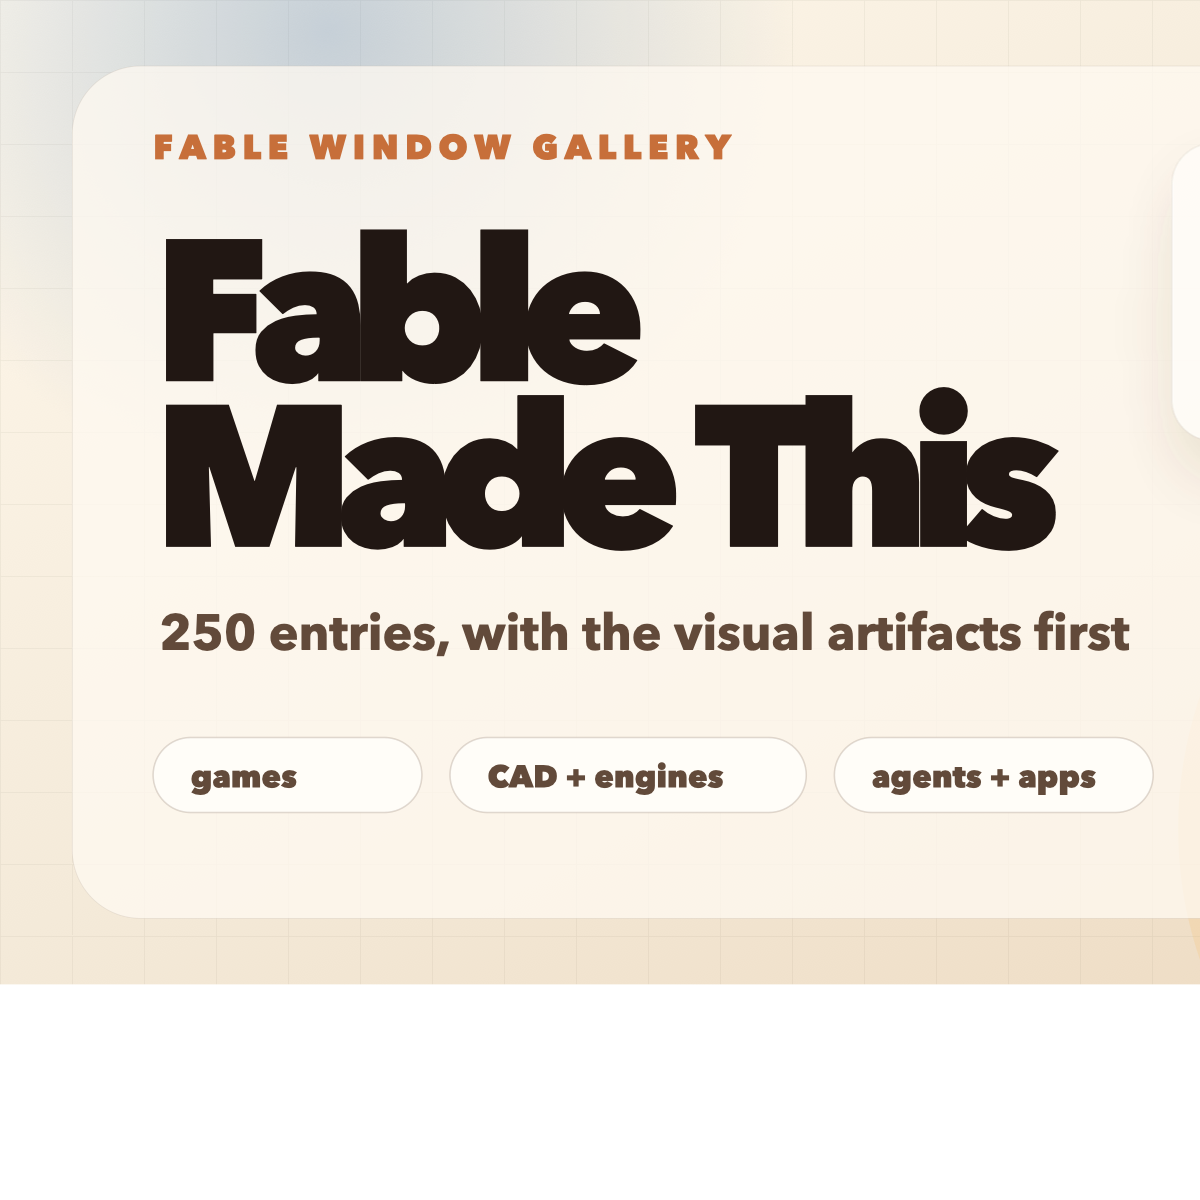
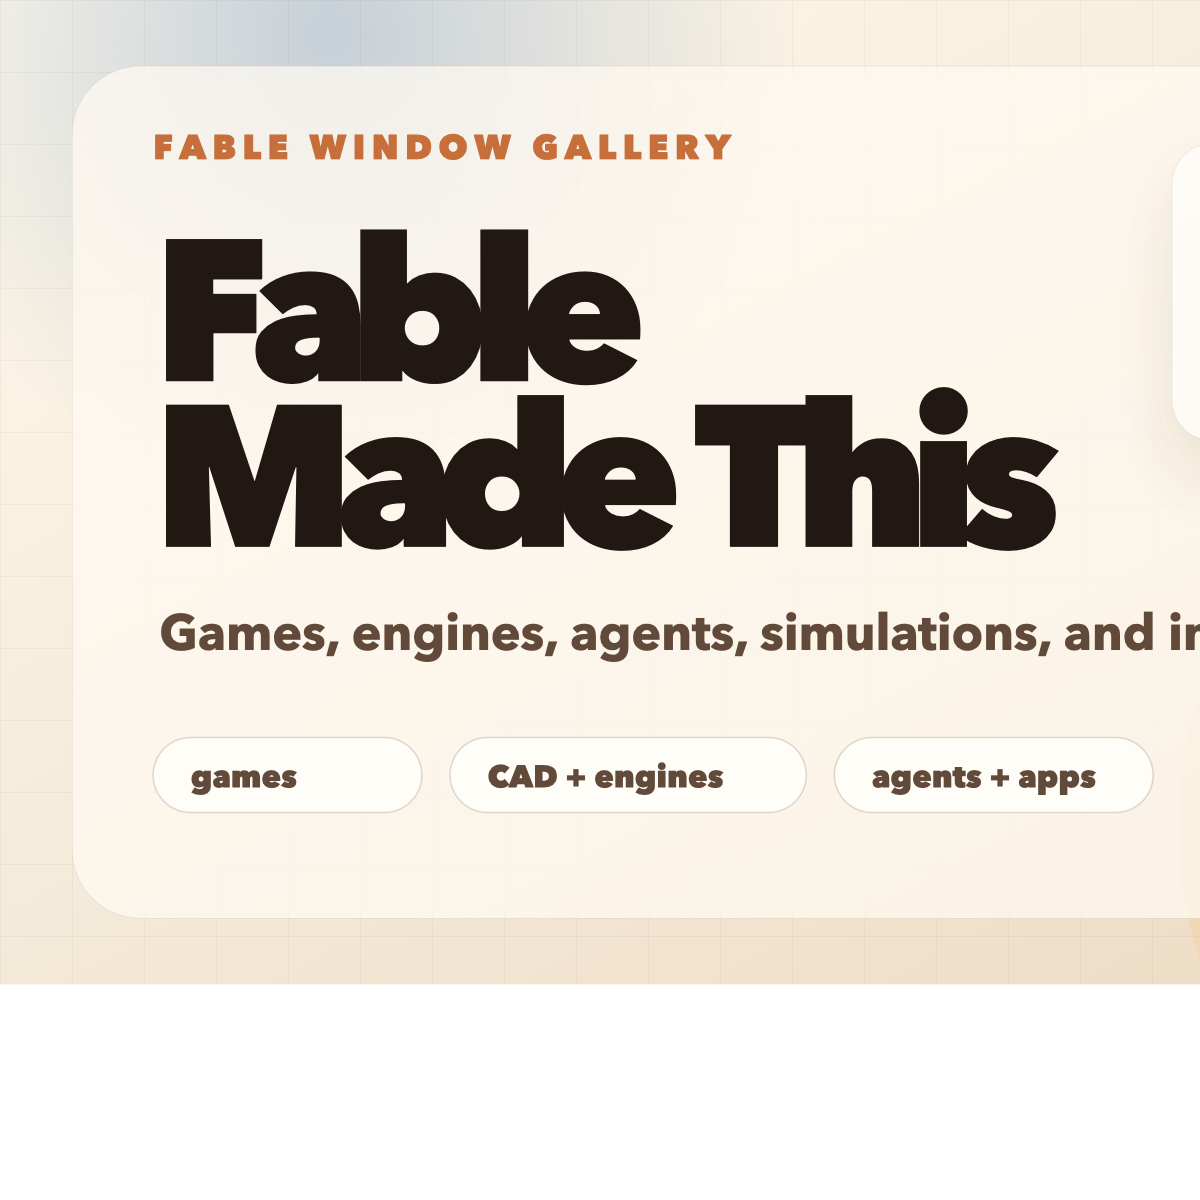
Remove catalog stat clutter

Changed region(s): [[0.555, 0.4933, 1.0, 0.555], [0.1233, 0.4933, 0.5242, 0.555]]

diff --git a/src/main.jsx b/src/main.jsx
@@ -32,7 +32,6 @@ const archiveItems = [
 const allItems = [...featuredItems, ...archiveItems];
 const previewItems = featuredItems.slice(0, 8);
 const categories = ["All", ...Array.from(new Set(allItems.map((project) => project.category)))];
-const windowLabel = "June 9-13, 2026";
 const catalogUrl = "https://github.com/Anil-matcha/awesome-claude-fable-5";
 const submissionUrl =
   "https://github.com/manosai/fable-made-this/issues/new?title=Fable%20Made%20This%20submission&body=Source%20link%3A%0A%0ACreator%3A%0A%0AWhat%20did%20Fable%20make%3F%0A%0AWhy%20is%20it%20impressive%3F";
@@ -77,8 +76,8 @@ const synthesisThemes = [
 ];
 
 const synthesisSignals = [
-  `${allItems.length} sourced entries`,
-  `${featuredItems.length} media-backed artifacts staged first`,
+  "One-shot artifacts",
+  "Long-horizon builds",
   "Worlds, engines, games, agents, and polished interfaces",
   "Same underlying capabilities as Mythos 5",
   "1M token context and up to 128k output"
@@ -181,13 +180,11 @@ function App() {
   }, [category, query, sort]);
 
   const archiveVisibleItems = archiveExpanded ? archiveFiltered : archiveFiltered.slice(0, 12);
-  const capturedMedia = featuredItems.length;
   const pageSize = Math.max(rowsPerPage, columns * rowsPerPage);
   const pageCount = Math.max(1, Math.ceil(filtered.length / pageSize));
   const currentPage = Math.min(page, pageCount);
   const pageStart = (currentPage - 1) * pageSize;
-  const pageEnd = Math.min(pageStart + pageSize, filtered.length);
-  const paginatedItems = filtered.slice(pageStart, pageEnd);
+  const paginatedItems = filtered.slice(pageStart, pageStart + pageSize);
   const paginationItems = visiblePageItems(currentPage, pageCount);
 
   useEffect(() => {
@@ -241,17 +238,9 @@ function App() {
           <p className="eyebrow">Fable Window Gallery</p>
           <h1>Fable Made This</h1>
           <p className="dek">
-            {allItems.length} sourced entries from the few public days when Claude Fable felt less like a chatbot and
-            more like a builder. The first pass foregrounds {featuredItems.length} media-backed artifacts; the deeper
-            archive follows after the analysis.
+            A gallery from the few public days when Claude Fable felt less like a chatbot and more like a builder.
+            Start with the artifacts that explain themselves visually, then wander into the deeper source trail.
           </p>
-          <div className="stats">
-            <span>{windowLabel}</span>
-            <span>{allItems.length} sourced entries</span>
-            <span>{capturedMedia} media cards</span>
-            <span>{archiveItems.length} archive leads</span>
-            <span>{categories.length - 1} categories</span>
-          </div>
           <div className="heroLinks">
             <a href="#gallery">Enter the gallery</a>
             <a href="#synthesis">What made it interesting?</a>
@@ -307,11 +296,10 @@ function App() {
           <p className="eyebrow">Gallery</p>
           <h2>Browse the artifacts</h2>
           <p>
-            The opening gallery is deliberately media-first: the most legible screenshots and videos come before the
-            source-backed archive. Hover or focus a card to reveal the source trail.
+            The opening gallery favors examples that communicate at a glance: games, simulations, product surfaces,
+            engines, and worlds with visible craft. Hover or focus a card to reveal the source trail.
           </p>
         </div>
-        <strong>{filtered.length}</strong>
       </section>
 
       <section className="grid" ref={gridRef}>
@@ -369,7 +357,7 @@ function App() {
 
       <nav className="pagination" aria-label="Gallery pagination">
         <p>
-          Showing {filtered.length === 0 ? 0 : pageStart + 1}-{pageEnd} of {filtered.length}
+          Browse the featured gallery
           <span>Four rows per page</span>
         </p>
         <div className="paginationControls">
@@ -448,14 +436,13 @@ function App() {
       <section className="archive" id="archive" aria-label="Source-backed archive">
         <div className="sectionHeader archiveHeader">
           <div>
-            <p className="eyebrow">Full Archive</p>
-            <h2>Source-backed leads</h2>
+            <p className="eyebrow">More To Explore</p>
+            <h2>Source trail</h2>
             <p>
-              These entries are useful context, but less instantly visual. They stay lower on the page so the strongest
-              artifacts set the first impression while the full research trail remains browsable.
+              These are useful trails for deeper browsing. They stay lower on the page so the strongest artifacts set
+              the first impression while the broader research remains available.
             </p>
           </div>
-          <strong>{archiveFiltered.length}</strong>
         </div>
         <div className="archiveGrid">
           {archiveVisibleItems.map((item) => (
@@ -485,7 +472,7 @@ function App() {
         </div>
         {archiveFiltered.length > 12 && (
           <button className="archiveToggle" type="button" onClick={() => setArchiveExpanded((value) => !value)}>
-            {archiveExpanded ? "Show fewer archive leads" : `Show all ${archiveFiltered.length} archive leads`}
+            {archiveExpanded ? "Show fewer" : "Show all"}
           </button>
         )}
       </section>
@@ -496,8 +483,8 @@ function App() {
         <a href={catalogUrl} target="_blank" rel="noreferrer">
           Anil-matcha/awesome-claude-fable-5
         </a>
-        , which collected many of the original posts used for source-backed leads. The page leads with media-backed
-        artifacts, then keeps the broader archive lower for completeness. Missing something great?{" "}
+        , which collected many of the original posts. The page leads with the most instantly legible artifacts, then
+        keeps the broader trail lower for completeness. Missing something great?{" "}
         <a href={submissionUrl} target="_blank" rel="noreferrer">
           Submit it here
         </a>

diff --git a/index.html b/index.html
@@ -3,31 +3,31 @@
   <head>
     <meta charset="UTF-8" />
     <meta name="viewport" content="width=device-width, initial-scale=1.0" />
-    <title>Fable Made This — 250 Claude Fable entries</title>
+    <title>Fable Made This — Claude Fable Gallery</title>
     <meta
       name="description"
-      content="A curated Claude Fable gallery with 17 media-backed artifacts staged first, followed by a 250-entry source-backed archive from the brief public window."
+      content="A curated Claude Fable gallery of games, simulations, engines, agents, and polished product surfaces from the brief public window."
     />
     <meta name="theme-color" content="#f4ead9" />
-    <meta property="og:title" content="Fable Made This — 250 Claude Fable entries" />
+    <meta property="og:title" content="Fable Made This — Claude Fable Gallery" />
     <meta property="og:url" content="https://manosai.github.io/fable-made-this/" />
     <meta
       property="og:description"
-      content="The most visual Fable artifacts first, then the broader source-backed archive: games, CAD tools, simulations, agents, and polished product surfaces."
+      content="A gallery of the most legible Claude Fable artifacts: games, CAD tools, simulations, agents, and polished product surfaces."
     />
     <meta property="og:image" content="https://manosai.github.io/fable-made-this/social-card.png" />
-    <meta property="og:image:alt" content="Fable Made This, a gallery of 250 Claude Fable entries with 17 visual artifacts staged first." />
+    <meta property="og:image:alt" content="Fable Made This, a gallery of Claude Fable artifacts." />
     <meta property="og:image:width" content="1200" />
     <meta property="og:image:height" content="630" />
     <meta property="og:type" content="website" />
     <meta name="twitter:card" content="summary_large_image" />
-    <meta name="twitter:title" content="Fable Made This — 250 Claude Fable entries" />
+    <meta name="twitter:title" content="Fable Made This — Claude Fable Gallery" />
     <meta
       name="twitter:description"
-      content="The most visual Fable artifacts first, then the broader source-backed archive from the brief public window."
+      content="A gallery of the most legible Claude Fable artifacts from the brief public window."
     />
     <meta name="twitter:image" content="https://manosai.github.io/fable-made-this/social-card.png" />
-    <meta name="twitter:image:alt" content="Fable Made This, a gallery of 250 Claude Fable entries with 17 visual artifacts staged first." />
+    <meta name="twitter:image:alt" content="Fable Made This, a gallery of Claude Fable artifacts." />
   </head>
   <body>
     <div id="root"></div>

diff --git a/src/styles.css b/src/styles.css
@@ -142,7 +142,6 @@ h1 {
 }
 
 .heroLinks,
-.stats,
 .tags,
 .cardTop,
 .controls,
@@ -158,11 +157,6 @@ h1 {
   margin-top: 24px;
 }
 
-.stats {
-  margin-top: 24px;
-}
-
-.stats span,
 .tags span,
 .cardTop span,
 .signalRow span {

diff --git a/DESIGN.md b/DESIGN.md
@@ -2,7 +2,7 @@
 
 ## Overview
 
-Fable Made This is a light, image-led gallery with a launch-page hero, a prioritized artifact grid, synthesis, and a lower source-backed archive. The visual system should feel like a curated exhibition catalog for AI-made artifacts: tactile, readable, confident, and slightly strange.
+Fable Made This is a light, image-led gallery with a launch-page hero, a prioritized artifact grid, synthesis, and a quieter deeper-browsing trail. The visual system should feel like a curated exhibition catalog for AI-made artifacts: tactile, readable, confident, and slightly strange.
 
 ## Color
 
@@ -37,13 +37,13 @@ Key structures:
 
 - Full-height hero with copy and artifact preview mosaic.
 - Sticky controls for search, category, and sort.
-- Responsive paginated artifact grid for the 17 media-backed examples.
+- Responsive paginated artifact grid for the strongest visual examples.
 - Synthesis section beneath the gallery.
-- Compact source-backed archive lower on the page for less visual leads.
+- Compact source trail lower on the page for deeper browsing.
 
 Direction:
 
-- The media-backed gallery should remain the primary experience.
+- The visual gallery should remain the primary experience.
 - Avoid monotonous identical-card rhythm by varying card spans and media emphasis on larger screens.
 - Give the hero one dominant visual idea rather than a generic landing-page split.
 - Keep synthesis readable but secondary to browsing, and keep the archive visually quieter than the main gallery.
@@ -56,11 +56,11 @@ Should quickly communicate: “a short Fable window produced complete artifacts.
 
 ### Artifact Card
 
-Media-first, clickable, source-backed. The card should surface title, creator, and quick rationale without hiding the artifact or requiring hover to understand why it matters.
+Media-first and clickable. The card should surface title, creator, and quick rationale without hiding the artifact or requiring hover to understand why it matters.
 
 ### Source Lead
 
-Compact, text-led, and clearly secondary. Source leads should preserve research coverage without pretending to be visual artifacts.
+Compact, text-led, and clearly secondary. Source-trail cards should preserve research coverage without pretending to be visual artifacts.
 
 ### Controls
 

diff --git a/PRODUCT.md b/PRODUCT.md
@@ -28,7 +28,7 @@ Selective, artifact-led, and slightly uncanny. The page should feel like an exhi
 
 ## Design Principles
 
-1. Stage the experience: lead with visible artifacts, then preserve less visual source-backed leads lower on the page.
+1. Stage the experience: lead with visible artifacts, then keep the deeper source trail lower on the page.
 2. Average examples hurt the first impression: curation should prioritize stronger entries without deleting useful research context.
 3. Make the artifact legible in under two seconds: category, creator, and why-it-matters should support the media, not compete with it.
 4. Preserve source credibility: every claim should remain traceable to an original source or playable artifact.